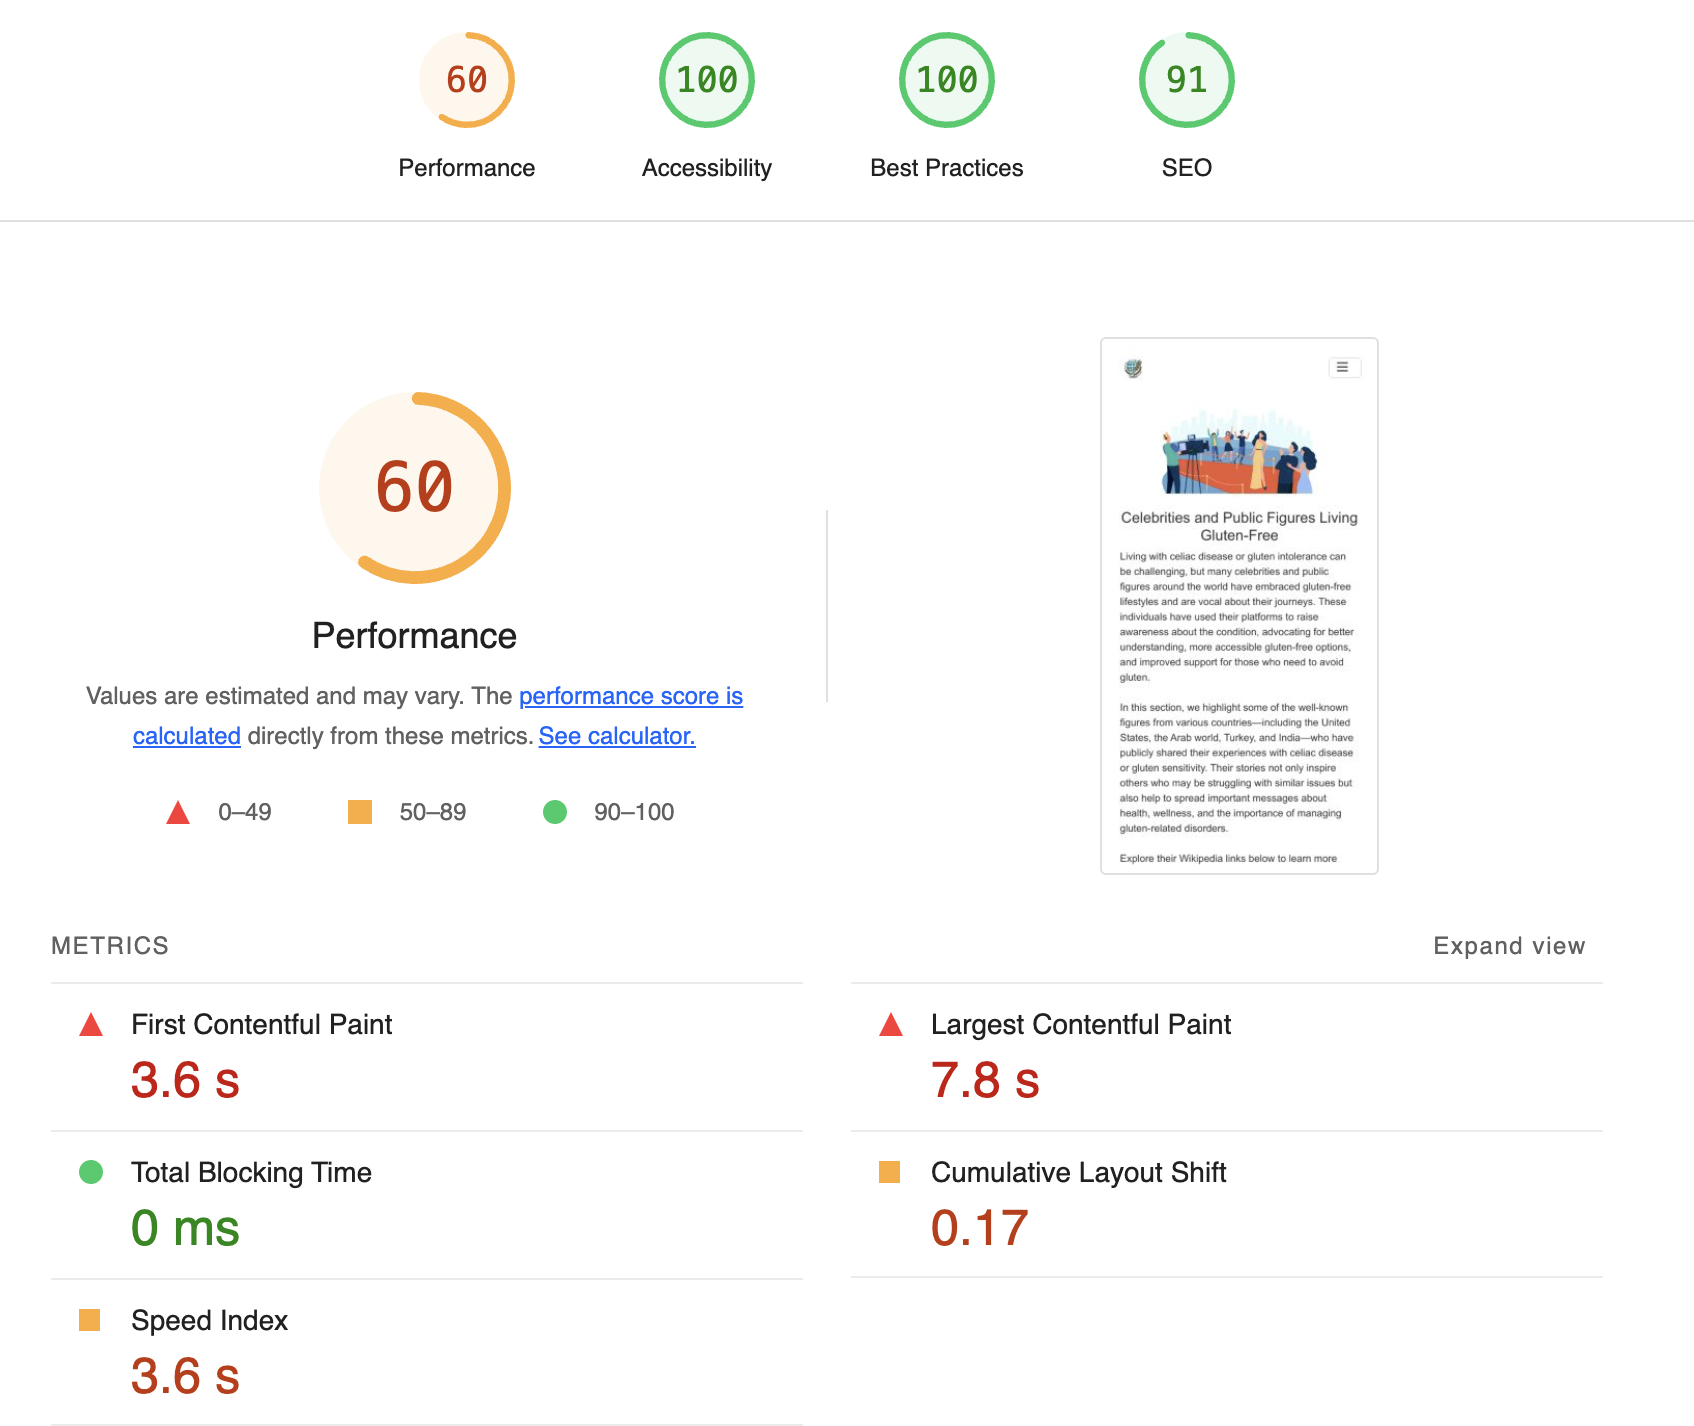
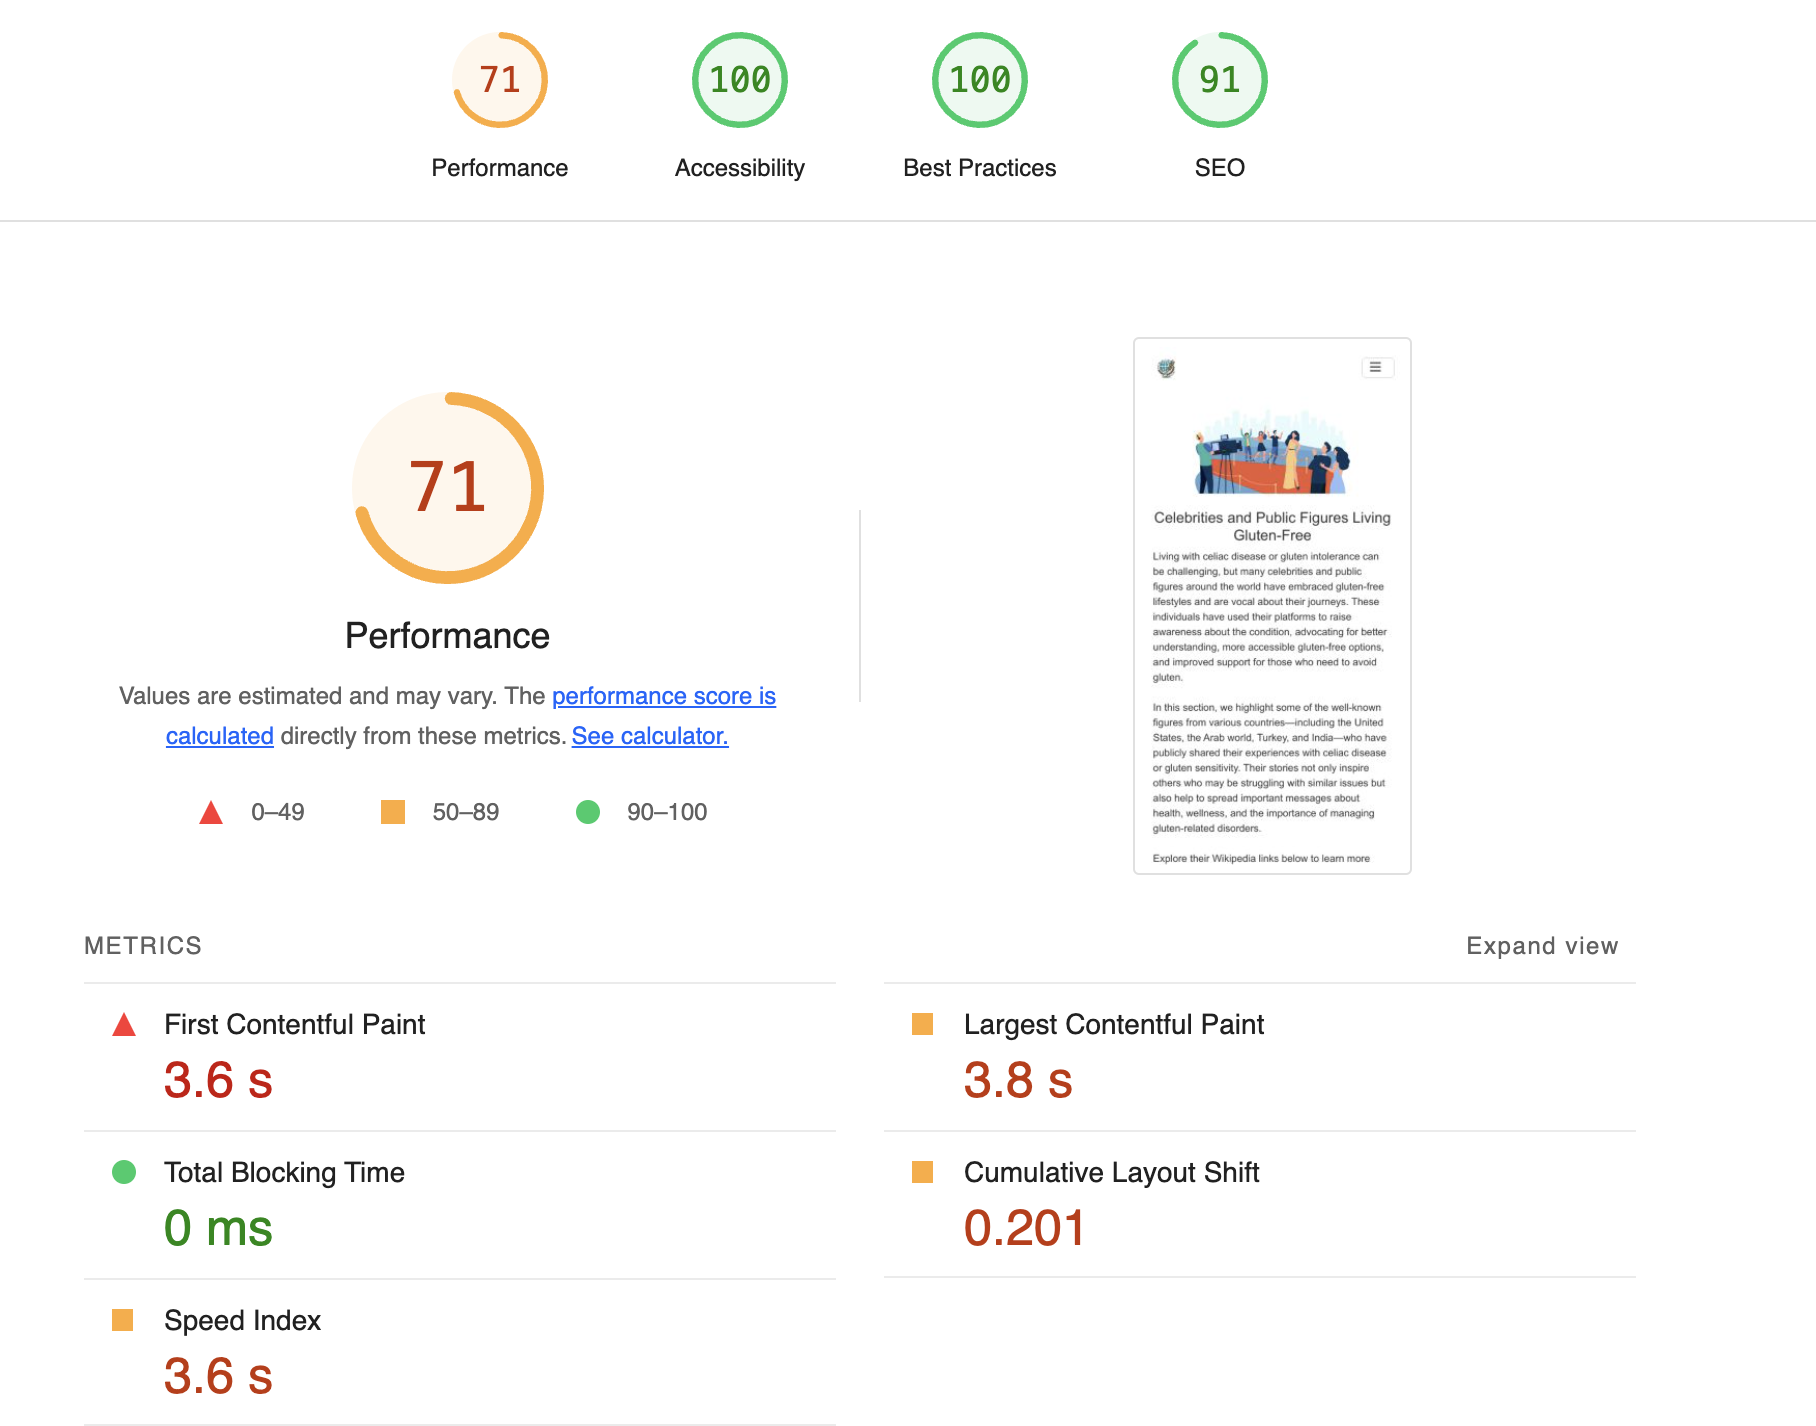
Update lighthouse screenshots with new testing results

diff --git a/TESTING.md b/TESTING.md
@@ -59,7 +59,7 @@ I've tested my deployed project using the Lighthouse Audit tool to check for any
 | --- | --- | --- | --- |
 | Home | ![screenshot](documentation/lighthouse/lighthouse-home-mobile.png) | ![screenshot](documentation/lighthouse/lighthouse-home-desktop.png) | Slow response time due to large images |
 | Recipes | ![screenshot](documentation/lighthouse/lighthouse-recipes-mobile.png) | ![screenshot](documentation/lighthouse/lighthouse-recipes-desktop.png) | Slow response time due to large images |
-| Celebrities | ![screenshot](documentation/lighthouse/lighthouse-celebrities-mobile.png) | ![screenshot](documentation/lighthouse/lighthouse-celebrities-desktop.png) | Slow response time due to large images |
+| Celebrities | ![screenshot](documentation/lighthouse/lighthouse-celebrities-mobile.png) | ![screenshot](documentation/lighthouse/lighthouse-celebrities-desktop.png) | Some minor warnings |
 | Subscribe | ![screenshot](documentation/lighthouse/lighthouse-subscribe-mobile.png) | ![screenshot](documentation/lighthouse/lighthouse-subscribe-desktop.png) | Some minor warnings |
 
 ## Bugs
